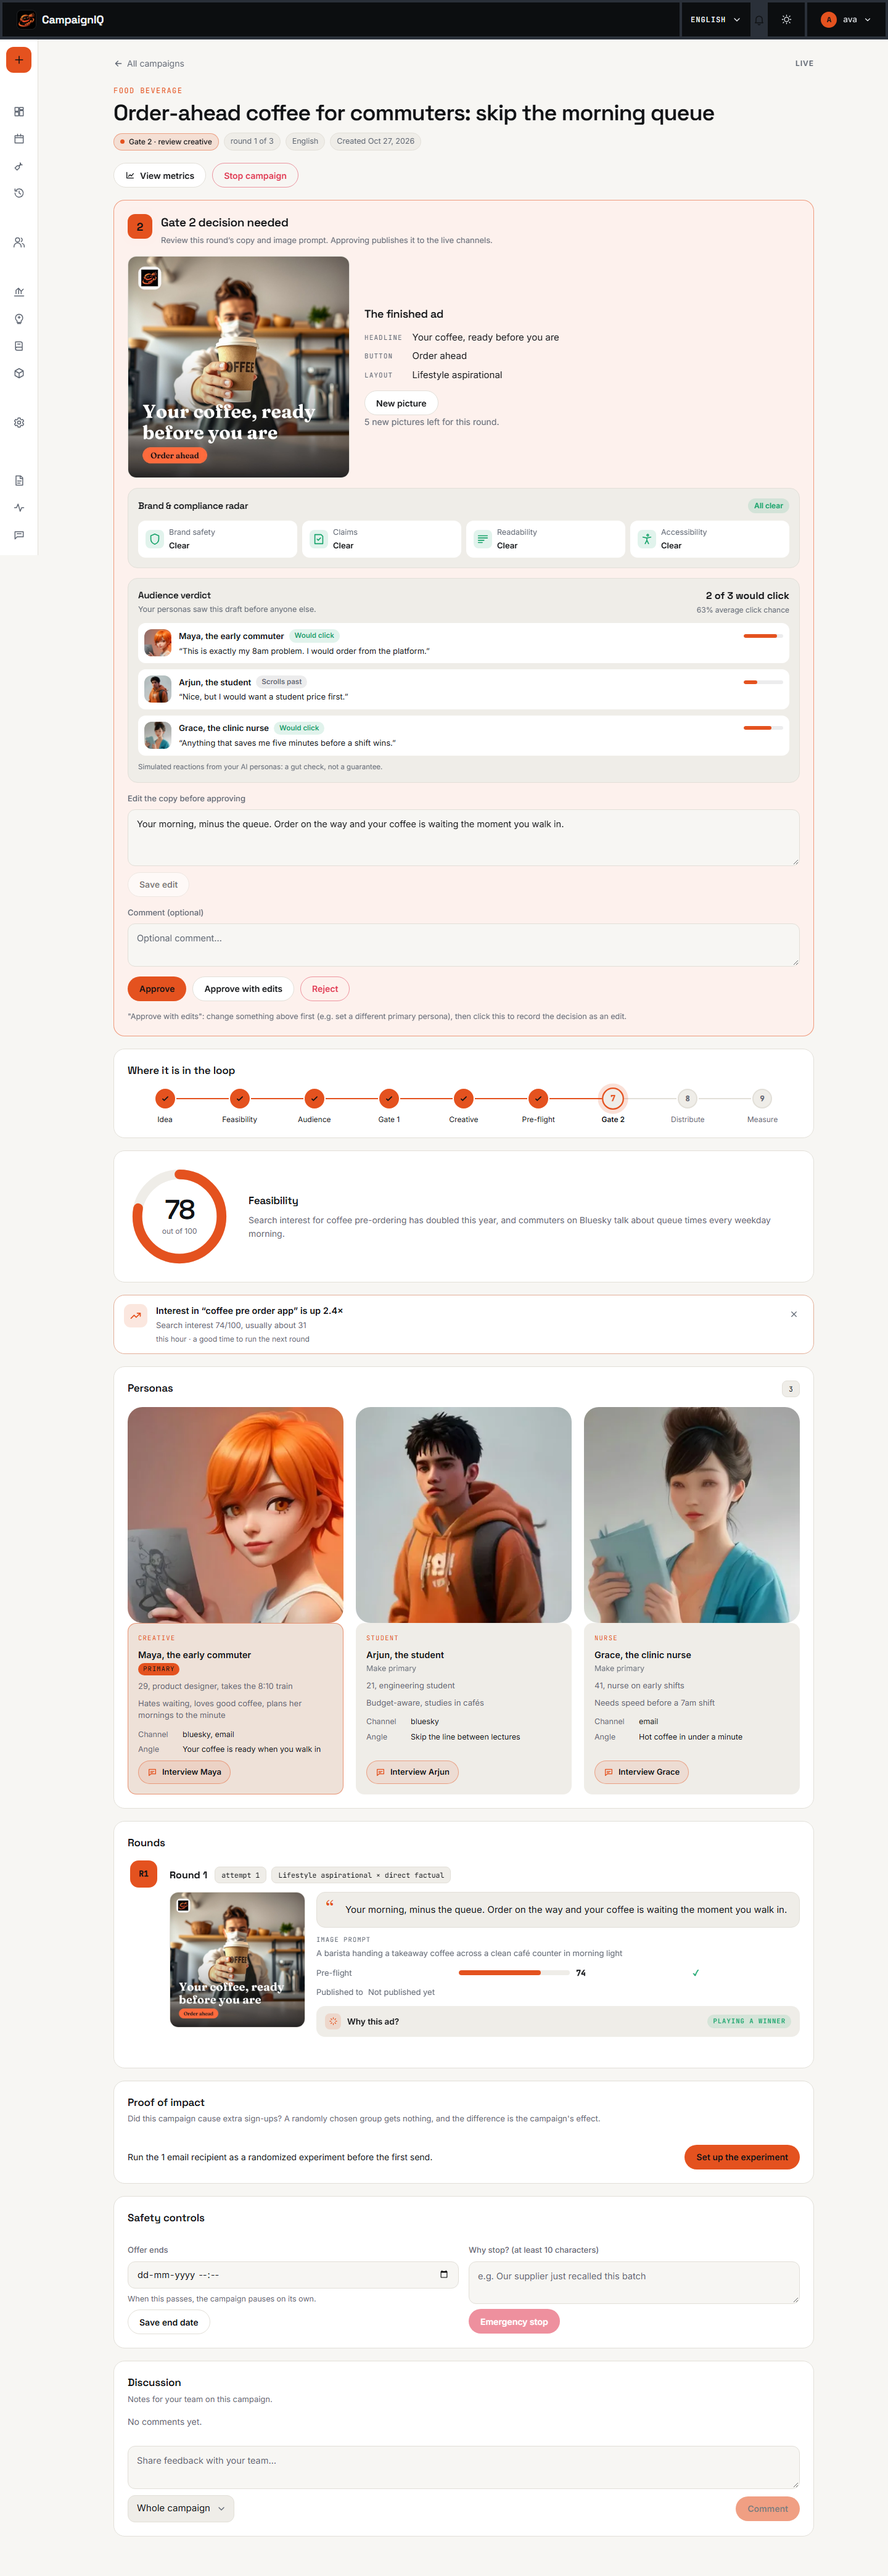
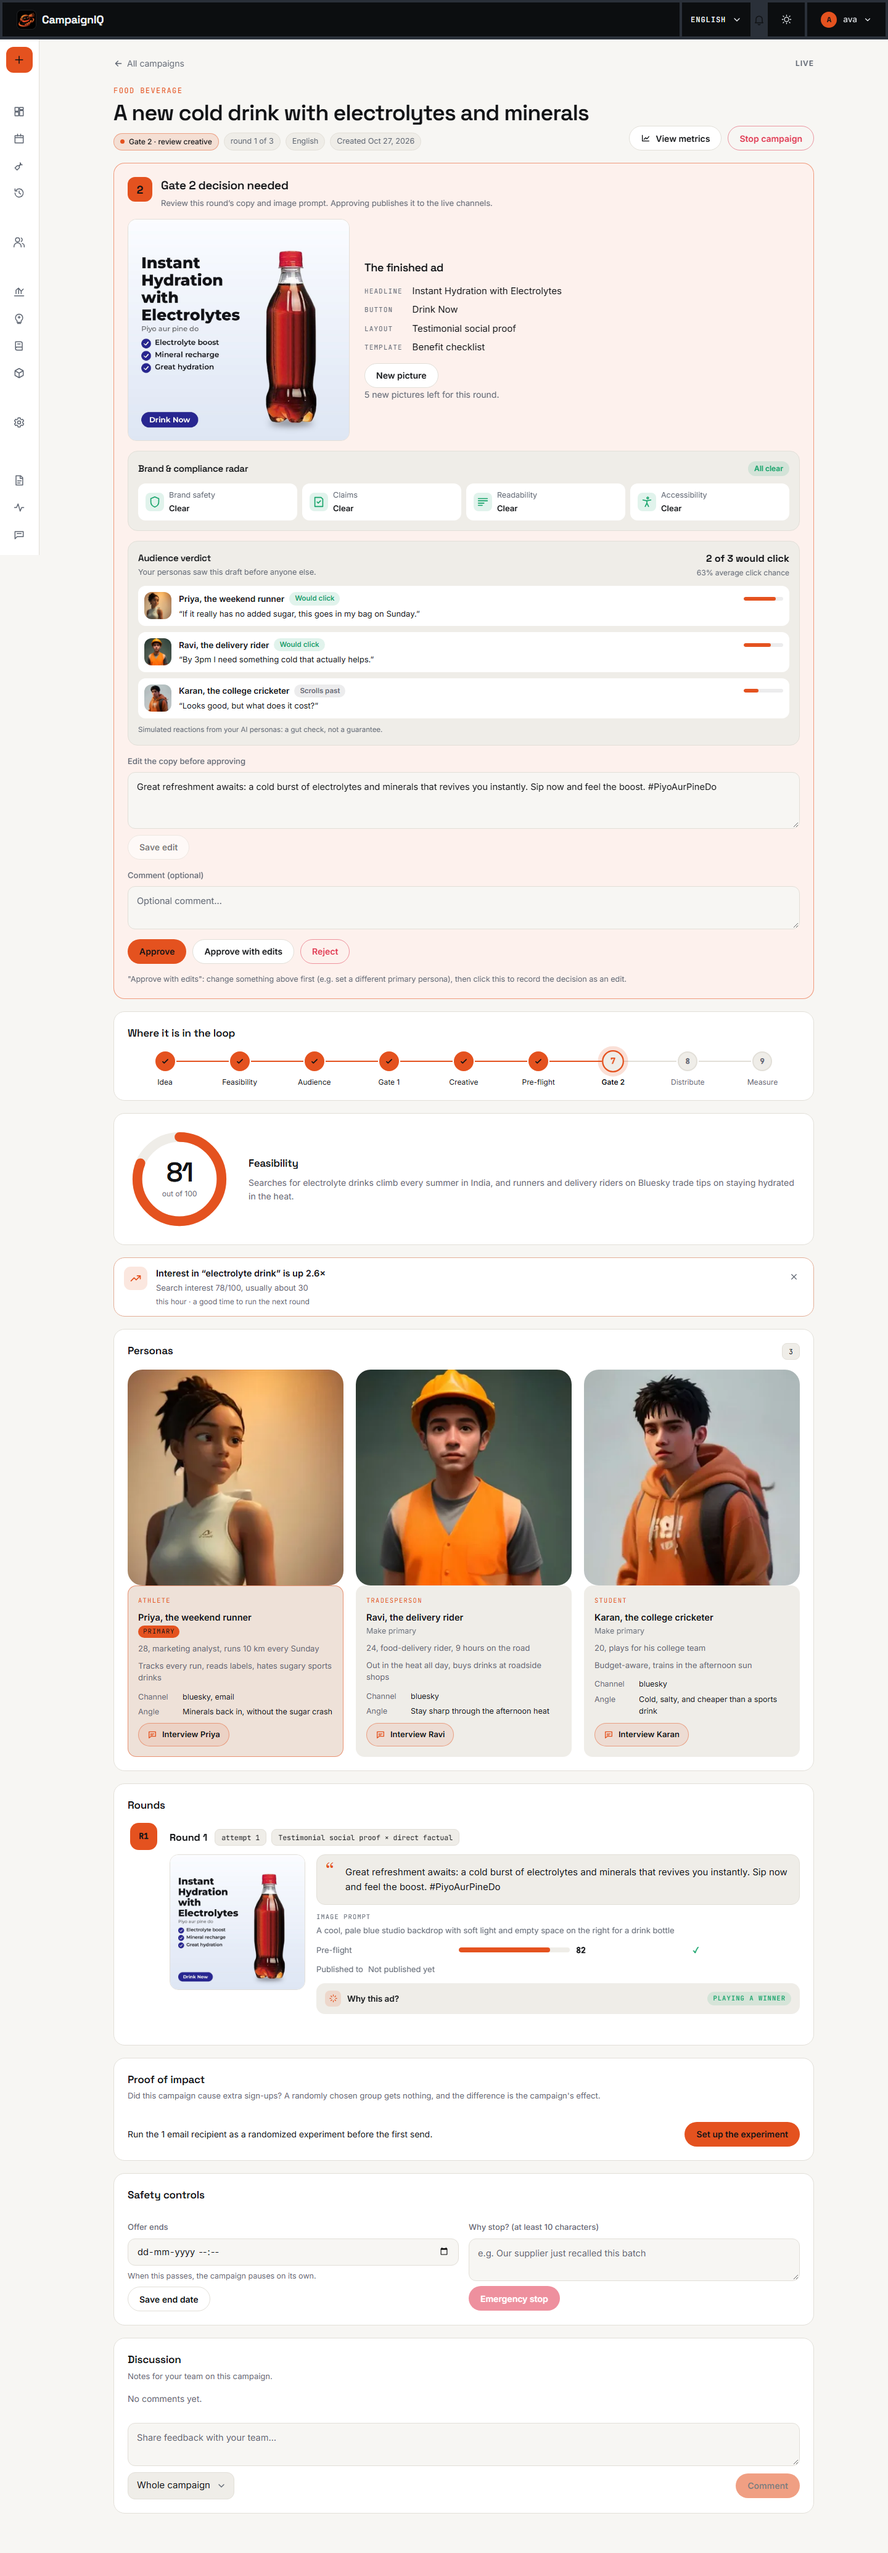
Update readme

diff --git a/frontend/e2e/screenshots.spec.ts b/frontend/e2e/screenshots.spec.ts
@@ -7,49 +7,52 @@ import { test, type Page } from '@playwright/test'
 // README screenshots (docs/screenshots), from the real built app against a
 // mocked backend with realistic demo data. Not part of the normal run:
 //   SCREENSHOTS=1 npx playwright test e2e/screenshots.spec.ts --project=desktop
-// The ad shown is a saved fixture: taking screenshots never spends image generation.
+// The ad shown is a saved fixture (a real Tools run, benefit_checklist layout, with
+// an unbranded bottle): taking screenshots never spends image generation.
 
 test.skip(!process.env.SCREENSHOTS, 'Set SCREENSHOTS=1 to refresh the README screenshots')
 
 const here = path.dirname(fileURLToPath(import.meta.url))
 const OUT = path.resolve(here, '../../docs/screenshots')
-const AD = readFileSync(path.join(here, 'fixtures/sample-ad.jpg'))
+const AD = readFileSync(path.join(here, 'fixtures/drink-ad.jpg'))
 
 const USER = { id: '11111111-1111-1111-1111-111111111111', email: 'ava@example.com' }
-const ORG = { id: '22222222-2222-2222-2222-222222222222', name: 'Brewline Coffee', personal: false }
+const ORG = { id: '22222222-2222-2222-2222-222222222222', name: 'Piyo Drinks', personal: false }
 const now = new Date().toISOString()
 const day = (n: number) => new Date(Date.now() - n * 86_400_000).toISOString()
 
 const campaign = (id: string, status: string, idea: string, domain: string, score: number, created: string) => ({
   id, org_id: ORG.id, idea, domain_category: domain, feasibility_score: score,
-  feasibility_rationale: 'Search interest for coffee pre-ordering has doubled this year, and commuters on Bluesky talk about queue times every weekday morning.',
-  status, current_round: 1, reddit_subreddit: null, email_to: ['team@brewline.example'], cta_url: 'https://brewline.example/order',
+  feasibility_rationale: 'Searches for electrolyte drinks climb every summer in India, and runners and delivery riders on Bluesky trade tips on staying hydrated in the heat.',
+  status, current_round: 1, reddit_subreddit: null, email_to: ['team@piyo.example'], cta_url: 'https://piyo.example/shop',
   use_image_template: false, use_email_template: false, max_rounds: 3, max_duration_minutes: null, campaign_summary: null,
   distributed_at: null, stop_requested: false, target_language: 'en', created_at: created, updated_at: created, ab_test: false, ab_decision: null,
+  product_tagline: id === 'c1' ? 'Piyo aur pine do' : null,
 })
 const CAMPAIGNS = [
-  campaign('c1', 'awaiting_gate_2', 'Order-ahead coffee for commuters: skip the morning queue', 'food_beverage', 78, day(0)),
-  campaign('c2', 'awaiting_metrics', 'Weekend latte-art workshops for beginners', 'education', 66, day(2)),
-  campaign('c3', 'completed', 'Seasonal pumpkin cold brew launch', 'food_beverage', 71, day(6)),
+  campaign('c1', 'awaiting_gate_2', 'A new cold drink with electrolytes and minerals', 'food_beverage', 81, day(0)),
+  campaign('c2', 'awaiting_metrics', 'Sugar-free lemon-mint electrolyte sachets for gym bags', 'food_beverage', 69, day(2)),
+  campaign('c3', 'completed', 'Monsoon launch: ginger-lime hydration drink', 'food_beverage', 72, day(6)),
 ]
 const PERSONAS = [
-  { id: 'p1', campaign_id: 'c1', name: 'Maya, the early commuter', demographics: '29, product designer, takes the 8:10 train', psychographics: 'Hates waiting, loves good coffee, plans her mornings to the minute', channel_fit: 'bluesky, email', messaging_angle: 'Your coffee is ready when you walk in', is_primary: true, archetype: 'designer', gender: 'female' },
-  { id: 'p2', campaign_id: 'c1', name: 'Arjun, the student', demographics: '21, engineering student', psychographics: 'Budget-aware, studies in cafés', channel_fit: 'bluesky', messaging_angle: 'Skip the line between lectures', is_primary: false, archetype: 'student', gender: 'male' },
-  { id: 'p3', campaign_id: 'c1', name: 'Grace, the clinic nurse', demographics: '41, nurse on early shifts', psychographics: 'Needs speed before a 7am shift', channel_fit: 'email', messaging_angle: 'Hot coffee in under a minute', is_primary: false, archetype: 'nurse', gender: 'female' },
+  { id: 'p1', campaign_id: 'c1', name: 'Priya, the weekend runner', demographics: '28, marketing analyst, runs 10 km every Sunday', psychographics: 'Tracks every run, reads labels, hates sugary sports drinks', channel_fit: 'bluesky, email', messaging_angle: 'Minerals back in, without the sugar crash', is_primary: true, archetype: 'athlete', gender: 'female' },
+  { id: 'p2', campaign_id: 'c1', name: 'Ravi, the delivery rider', demographics: '24, food-delivery rider, 9 hours on the road', psychographics: 'Out in the heat all day, buys drinks at roadside shops', channel_fit: 'bluesky', messaging_angle: 'Stay sharp through the afternoon heat', is_primary: false, archetype: 'tradesperson', gender: 'male' },
+  { id: 'p3', campaign_id: 'c1', name: 'Karan, the college cricketer', demographics: '20, plays for his college team', psychographics: 'Budget-aware, trains in the afternoon sun', channel_fit: 'bluesky', messaging_angle: 'Cold, salty, and cheaper than a sports drink', is_primary: false, archetype: 'student', gender: 'male' },
 ]
 const ITER = {
   id: 'i1', campaign_id: 'c1', round_number: 1, preflight_attempt: 1,
-  copy_text: 'Your morning, minus the queue. Order on the way and your coffee is waiting the moment you walk in.',
-  image_prompt: 'A barista handing a takeaway coffee across a clean café counter in morning light',
-  image_path: 'c1/round-1.jpg', image_version: 0, headline: 'Your coffee, ready before you are', cta: 'Order ahead',
-  preflight_score: 74, preflight_passed: true, bluesky_post_uri: null, reddit_post_url: null, email_id: null,
-  image_style: 'lifestyle_aspirational', copy_tone: 'direct_factual', arm_index: 16,
+  copy_text: 'Great refreshment awaits: a cold burst of electrolytes and minerals that revives you instantly. Sip now and feel the boost. #PiyoAurPineDo',
+  image_prompt: 'A cool, pale blue studio backdrop with soft light and empty space on the right for a drink bottle',
+  image_path: 'c1/round-1.jpg', image_version: 0, headline: 'Instant Hydration with Electrolytes', cta: 'Drink Now',
+  template: 'benefit_checklist',
+  preflight_score: 82, preflight_passed: true, bluesky_post_uri: null, reddit_post_url: null, email_id: null,
+  image_style: 'testimonial_social_proof', copy_tone: 'direct_factual', arm_index: 4,
   guardrail_flags: { issues: [], disclaimer: null },
   focus_group: {
     reactions: [
-      { name: 'Maya, the early commuter', archetype: 'designer', gender: 'female', reaction: 'click', likelihood: 84, quote: 'This is exactly my 8am problem. I would order from the platform.' },
-      { name: 'Arjun, the student', archetype: 'student', gender: 'male', reaction: 'scroll', likelihood: 35, quote: 'Nice, but I would want a student price first.' },
-      { name: 'Grace, the clinic nurse', archetype: 'nurse', gender: 'female', reaction: 'click', likelihood: 71, quote: 'Anything that saves me five minutes before a shift wins.' },
+      { name: 'Priya, the weekend runner', archetype: 'athlete', gender: 'female', reaction: 'click', likelihood: 82, quote: 'If it really has no added sugar, this goes in my bag on Sunday.' },
+      { name: 'Ravi, the delivery rider', archetype: 'tradesperson', gender: 'male', reaction: 'click', likelihood: 68, quote: 'By 3pm I need something cold that actually helps.' },
+      { name: 'Karan, the college cricketer', archetype: 'student', gender: 'male', reaction: 'scroll', likelihood: 38, quote: 'Looks good, but what does it cost?' },
     ],
     verdict: { click: 2, scroll: 1, object: 0 },
     average_likelihood: 63,
@@ -57,11 +60,11 @@ const ITER = {
   arm_explain: {
     algorithm: 'LinUCB', alpha: 0.5,
     context: { age_bracket: '25-34', income_tier: 'mid', domain_category: 'food_beverage', channels: ['bluesky', 'email'] },
-    chosen: { arm_index: 16, image_style: 'lifestyle_aspirational', copy_tone: 'direct_factual', expected: 0.46, bonus: 0.1, score: 0.56, pulls: 6, mean_reward: 0.44 },
+    chosen: { arm_index: 4, image_style: 'testimonial_social_proof', copy_tone: 'direct_factual', expected: 0.47, bonus: 0.1, score: 0.57, pulls: 6, mean_reward: 0.45 },
     mode: 'exploit', rank: 1,
     alternatives: [
-      { arm_index: 12, image_style: 'humor_meme', copy_tone: 'direct_factual', expected: 0.3, bonus: 0.2, score: 0.5, pulls: 3, mean_reward: 0.31 },
-      { arm_index: 3, image_style: 'minimalist', copy_tone: 'aspirational_emotional', expected: 0.1, bonus: 0.35, score: 0.45, pulls: 1, mean_reward: 0.1 },
+      { arm_index: 19, image_style: 'lifestyle_aspirational', copy_tone: 'aspirational_emotional', expected: 0.31, bonus: 0.2, score: 0.51, pulls: 3, mean_reward: 0.3 },
+      { arm_index: 0, image_style: 'minimalist', copy_tone: 'direct_factual', expected: 0.12, bonus: 0.33, score: 0.45, pulls: 1, mean_reward: 0.12 },
     ],
     arms_tried: 8, total_rounds: 24,
   },
@@ -73,18 +76,18 @@ function bodyFor(url: string): unknown {
     return { plan: 'pro', limits: { campaigns_per_day: 20, active_campaigns: 10, members: 10, llm_tokens_per_day: 1500000 }, used: { campaigns_per_day: 1, active_campaigns: 2, members: 3, llm_tokens_per_day: 180000 } }
   if (url.includes('/rpc/org_members')) return [{ user_id: USER.id, email: USER.email, role: 'owner', username: 'ava' }]
   if (url.includes('/market_alerts'))
-    return [{ id: 1, campaign_id: 'c1', kind: 'trend', created_at: now, campaigns: { idea: CAMPAIGNS[0].idea }, detail: { keyword: 'coffee pre order app', value: 74, baseline: 31, ratio: 2.4 } }]
+    return [{ id: 1, campaign_id: 'c1', kind: 'trend', created_at: now, campaigns: { idea: CAMPAIGNS[0].idea }, detail: { keyword: 'electrolyte drink', value: 78, baseline: 30, ratio: 2.6 } }]
   if (url.includes('/playbooks'))
     return [{
       domain_category: 'food_beverage', generated_at: now,
       content: {
-        headline: 'Plain, direct copy over a warm lifestyle photo wins for café campaigns; urgency lost every time.',
-        do: ['Lead with the time saved, in the first five words', 'Show the product in someone’s hand, not on a table'],
-        avoid: ['Countdown pressure and “last chance” language', 'More than one emoji'],
-        audience: ['Commuters 25–34 click most on weekday mornings', 'Students respond to price, not speed'],
-        next_test: 'Try the testimonial layout with a real customer quote.',
+        headline: 'Benefit checklists with plain, direct copy win for drink launches; urgency lost every time.',
+        do: ['Name the benefit in the first five words', 'Show the bottle big, cold and front-on'],
+        avoid: ['Countdown pressure and “last chance” language', 'Health claims the label can’t back up'],
+        audience: ['Runners 25–34 click most on weekend mornings', 'Students respond to price, not ingredients'],
+        next_test: 'Try a giant-word layout with the flavour name behind the bottle.',
       },
-      stats: { rounds: 9, campaigns: 3, overall_mean: 0.38, tones: [{ name: 'direct_factual', mean: 0.47, n: 5 }, { name: 'urgency_scarcity', mean: 0.12, n: 2 }], styles: [{ name: 'lifestyle_aspirational', mean: 0.49, n: 4 }, { name: 'minimalist', mean: 0.33, n: 3 }] },
+      stats: { rounds: 9, campaigns: 3, overall_mean: 0.39, tones: [{ name: 'direct_factual', mean: 0.48, n: 5 }, { name: 'urgency_scarcity', mean: 0.13, n: 2 }], styles: [{ name: 'testimonial_social_proof', mean: 0.5, n: 4 }, { name: 'minimalist', mean: 0.34, n: 3 }] },
     }]
   if (url.includes('/rpc/model_card'))
     return {
@@ -105,7 +108,7 @@ function bodyFor(url: string): unknown {
   if (url.includes('/iterations')) return [ITER]
   if (url.includes('/personas')) return PERSONAS
   if (url.includes('/gate_decisions')) return [{ id: 'g1', campaign_id: 'c1', gate_number: 2, round_number: 1, decision: null, decided_at: null }]
-  if (url.includes('/brand_kits')) return [{ voice: 'Warm, plain-spoken, a little playful. Short sentences.', preferred_words: ['fresh', 'ready'], forbidden_words: ['cheap'], required_phrase: '#BrewlineMornings', brand_color: '#ff6b3d', logo_path: null }]
+  if (url.includes('/brand_kits')) return [{ voice: 'Bright, plain-spoken, a little playful. Short sentences.', preferred_words: ['cold', 'refresh'], forbidden_words: ['cure', 'miracle'], required_phrase: '#PiyoAurPineDo', brand_color: '#2b2f8f', logo_path: null }]
   return []
 }
 
@@ -149,11 +152,11 @@ test('dashboard', async ({ page }) => {
 })
 
 test('campaign at Gate 2', async ({ page }) => {
-  await shoot(page, '/campaigns/c1', 'gate-2.png', (p) => p.getByRole('img', { name: /barista/i }).first().waitFor({ timeout: 15_000 }), true)
+  await shoot(page, '/campaigns/c1', 'gate-2.png', (p) => p.getByRole('img', { name: /blue studio backdrop/i }).first().waitFor({ timeout: 15_000 }), true)
 })
 
 test('playbooks', async ({ page }) => {
-  await shoot(page, '/playbooks', 'playbooks.png', (p) => p.getByText(/plain, direct copy/i).first().waitFor())
+  await shoot(page, '/playbooks', 'playbooks.png', (p) => p.getByText(/benefit checklists/i).first().waitFor())
 })
 
 test('model card', async ({ page }) => {

diff --git a/frontend/src/pages/Contact.tsx b/frontend/src/pages/Contact.tsx
@@ -4,7 +4,7 @@ import { Link } from 'react-router-dom'
 import { toast } from '../lib/toast'
 import PublicLayout from '../components/PublicLayout'
 import { ArrowIcon } from '../components/PublicNav'
-import { CONTACT_EMAIL, REPO_URL } from '../lib/site'
+import { CONTACT_EMAIL, CONTACT_EMAILS, CONTACT_EMAIL_TEXT, REPO_URL } from '../lib/site'
 import styles from '../components/public.module.css'
 import local from './Contact.module.css'
 
@@ -29,7 +29,7 @@ export default function Contact() {
   async function copyEmail() {
     try {
       await navigator.clipboard.writeText(CONTACT_EMAIL)
-      toast.success('Email address copied.')
+      toast.success('Email addresses copied.')
     } catch {
       // Clipboard blocked: the address is still on screen to copy by hand.
       toast.error("Couldn't copy. Select the address above and copy it by hand.")
@@ -92,7 +92,7 @@ export default function Contact() {
           </div>
           {opened && (
             <p className={local.sent} role="status">
-              Your email app should have opened with the message. If it didn’t, write to {CONTACT_EMAIL} directly.
+              Your email app should have opened with the message. If it didn’t, write to {CONTACT_EMAIL_TEXT} directly.
             </p>
           )}
         </form>
@@ -100,7 +100,11 @@ export default function Contact() {
         <aside className={local.side}>
           <div className={`${styles.card} ${styles.enter}`} style={{ '--i': 3 } as CSSProperties}>
             <span className={styles.cardKicker}>Email</span>
-            <h3 className={local.email}>{CONTACT_EMAIL}</h3>
+            <h3 className={local.email}>
+              {CONTACT_EMAILS.map((address) => (
+                <span key={address}>{address}</span>
+              ))}
+            </h3>
             <div className={local.actions}>
               <a className="link-wipe" href={`mailto:${CONTACT_EMAIL}`}>
                 Write an email

diff --git a/frontend/src/pages/Privacy.tsx b/frontend/src/pages/Privacy.tsx
@@ -1,6 +1,6 @@
 import { Link } from 'react-router-dom'
 import LegalPage, { type LegalSection } from '../components/LegalPage'
-import { CONTACT_EMAIL } from '../lib/site'
+import { CONTACT_EMAIL, CONTACT_EMAIL_TEXT } from '../lib/site'
 
 // Describes what this codebase actually stores and sends; keep it in step with
 // src/db/*.sql and the providers/tools when either changes.
@@ -134,7 +134,7 @@ const SECTIONS: LegalSection[] = [
           masked API keys, Tools runs, AI usage and private memory. Deleting your account removes all of it, including
           your stored API keys and the category corrections future classifier training would use. Campaigns you created
           inside a team organisation belong to that team and stay with it. Posts already published on Bluesky or Mastodon must be
-          removed there separately. Questions: <a href={`mailto:${CONTACT_EMAIL}`}>{CONTACT_EMAIL}</a>.
+          removed there separately. Questions: <a href={`mailto:${CONTACT_EMAIL}`}>{CONTACT_EMAIL_TEXT}</a>.
         </p>
         <p>
           <strong>How long we keep things:</strong> your data stays while your account exists. Some operational data is
@@ -163,7 +163,7 @@ const SECTIONS: LegalSection[] = [
     body: (
       <p>
         Ask anything about your data on the <Link to="/contact">contact page</Link> or at{' '}
-        <a href={`mailto:${CONTACT_EMAIL}`}>{CONTACT_EMAIL}</a>. The rules for using the service are in the{' '}
+        <a href={`mailto:${CONTACT_EMAIL}`}>{CONTACT_EMAIL_TEXT}</a>. The rules for using the service are in the{' '}
         <Link to="/terms">terms of use</Link>.
       </p>
     ),

diff --git a/frontend/src/pages/Terms.tsx b/frontend/src/pages/Terms.tsx
@@ -1,6 +1,6 @@
 import { Link } from 'react-router-dom'
 import LegalPage, { type LegalSection } from '../components/LegalPage'
-import { CONTACT_EMAIL } from '../lib/site'
+import { CONTACT_EMAIL, CONTACT_EMAIL_TEXT } from '../lib/site'
 
 const SECTIONS: LegalSection[] = [
   {
@@ -91,7 +91,7 @@ const SECTIONS: LegalSection[] = [
     body: (
       <p>
         These terms may change as the project evolves; the date above shows the latest version. Questions go to the{' '}
-        <Link to="/contact">contact page</Link> or <a href={`mailto:${CONTACT_EMAIL}`}>{CONTACT_EMAIL}</a>. See also
+        <Link to="/contact">contact page</Link> or <a href={`mailto:${CONTACT_EMAIL}`}>{CONTACT_EMAIL_TEXT}</a>. See also
         the <Link to="/privacy">privacy policy</Link>.
       </p>
     ),

diff --git a/frontend/src/lib/site.ts b/frontend/src/lib/site.ts
@@ -1,6 +1,10 @@
 import { useSession } from './useAuth'
 
-export const CONTACT_EMAIL = 'safiya.khan@nonstopio.com'
+export const CONTACT_EMAILS = ['safiyakhan0225@gmail.com', 'yashassalian40@gmail.com']
+/** For mailto: links, so a message reaches both. */
+export const CONTACT_EMAIL = CONTACT_EMAILS.join(',')
+/** For showing in text. */
+export const CONTACT_EMAIL_TEXT = CONTACT_EMAILS.join(' or ')
 export const REPO_URL = 'https://github.com/yashas-salian/CampaignIQ---Multi-Agent-AI-Marketing-Automation-Platform'
 
 /** Where log-in / sign-up calls to action should go for this visitor. */

diff --git a/frontend/src/pages/Contact.module.css b/frontend/src/pages/Contact.module.css
@@ -40,7 +40,7 @@
 @keyframes pop { from { opacity: 0; transform: translateY(8px); } }
 
 .side { display: flex; flex-direction: column; gap: 16px; }
-.email { font-size: 18px !important; word-break: break-all; }
+.email { font-size: 18px !important; word-break: break-all; display: flex; flex-direction: column; gap: 4px; }
 .actions { display: flex; align-items: center; justify-content: space-between; gap: 12px; flex-wrap: wrap; margin-top: 8px; font-size: 14px; }
 .actions a { --wipe-base: var(--ciq-text); }
 .copy {

diff --git a/README.md b/README.md
@@ -145,7 +145,7 @@ Step by step: [docs/REFERENCE.md](docs/REFERENCE.md#deploying-the-frontend).
 | Web app: types, lint, browser tests on desktop and phone | `cd frontend && npx tsc -b && npm run lint && npx playwright test` |
 | Agent quality (golden set; needs Groq) | `.venv/Scripts/python -m src.eval.run_eval` |
 
-CI runs all of these on every push ([`tests.yml`](.github/workflows/tests.yml), [`eval.yml`](.github/workflows/eval.yml)).
+CI runs the tests on every push ([`tests.yml`](.github/workflows/tests.yml)). The agent-quality eval ([`eval.yml`](.github/workflows/eval.yml)) spends the shared Groq budget, so it runs only when started by hand from the Actions tab.
 
 ## Project layout
 

diff --git a/docs/REFERENCE.md b/docs/REFERENCE.md
@@ -390,7 +390,7 @@ capabilities), and prints a report:
 
 Exits non-zero if the overall score (domain accuracy + feasibility-in-range
 rate + average persona quality, equally weighted) falls below 60% — this is
-what `.github/workflows/eval.yml` runs on every push/PR, with
+what `.github/workflows/eval.yml` runs when started by hand (Actions → Eval → Run workflow), with
 `GROQ_API_KEY`/`NEWSAPI_KEY` configured as repo Actions secrets (Reddit
 secrets are optional/on hold, same as local `.env`).
 
